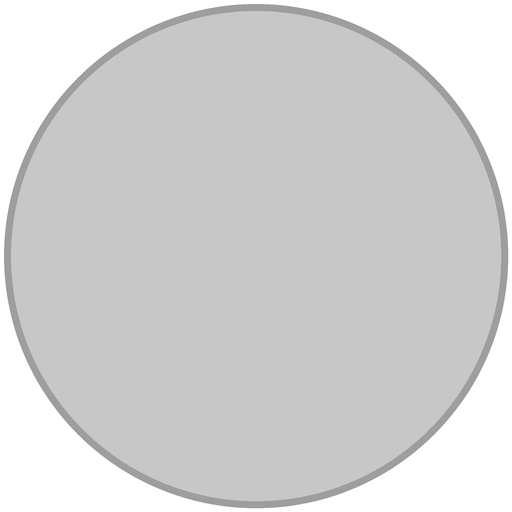
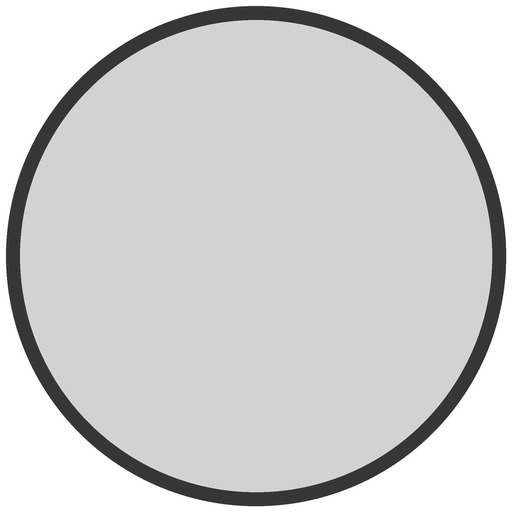
Joystick: knob can slide out of the ring, dark grey ring
- The knob follows the finger out past the ring (up to 1.2x its radius);
  full walking speed is reached at 0.6x
- Outer ring is now a simple dark grey / black circle

Claude-Session: https://claude.ai/code/session_015T92A5ipaZhQ5A3BBwMyRW

Changed region(s): [[0.0, 0.0, 1.0, 1.0]]

diff --git a/tools/make_ui.py b/tools/make_ui.py
@@ -1,7 +1,7 @@
 """Makes the HUD images in assets/ui from the developer's own pictures (tools/ui_src/developer):
   interact.png       - the hand + USE button
   joystick_knob.png  - the joystick knob
-  joystick_base.png  - a plain grey, see-through circle behind the knob
+  joystick_base.png  - a plain dark grey / black ring behind the knob
 Run:  python3 tools/make_ui.py
 """
 import os
@@ -28,11 +28,11 @@ def main():
     knob = trimmed(os.path.join(SRC, "joystick_knob.png"), pad=4)
     knob.resize((256, 256), Image.LANCZOS).save(os.path.join(OUT, "joystick_knob.png"))
 
-    # grey see-through circle, drawn 4x bigger and scaled down for smooth edges
+    # simple dark grey / black ring, drawn 4x bigger and scaled down for smooth edges
     big = 2048
     base = Image.new("RGBA", (big, big), (0, 0, 0, 0))
     d = ImageDraw.Draw(base)
-    d.ellipse([16, 16, big - 16, big - 16], fill=(120, 120, 120, 105), outline=(90, 90, 90, 150), width=28)
+    d.ellipse([24, 24, big - 24, big - 24], fill=(0, 0, 0, 45), outline=(38, 38, 38, 235), width=56)
     base.resize((512, 512), Image.LANCZOS).save(os.path.join(OUT, "joystick_base.png"))
     print("ui images written to", os.path.normpath(OUT))
 
